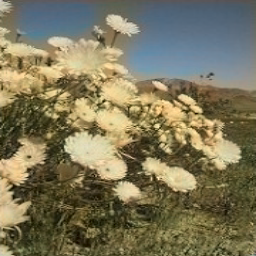
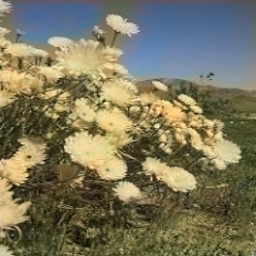
make colors brighter, slight button shift, suggested colors only appear when ready

diff --git a/src/ui/ui.js b/src/ui/ui.js
@@ -48,7 +48,6 @@ upload.addEventListener('change', function() {
       colorPalette.style.visibility="visible";
       clear.style.visibility="visible";
       colorizeBtn.style.visibility="visible";
-      suggestedColorsDiv.style.visibility="visible";
 
       uploadLabel.style.visibility="hidden";
 
@@ -73,6 +72,12 @@ upload.addEventListener('change', function() {
     let r = arr[i][0];
     let g = arr[i][1];
     let b = arr[i][2];
+    suggestedColorsDiv.style.visibility="visible";
+
+    // let r = Math.min(Math.round(arr[i][0] * 1.2), 255);
+    // let g = Math.min(Math.round(arr[i][1] * 1.2), 255);
+    // let b = Math.min(Math.round(arr[i][2] * 1.2), 255);
+   
     i = i + 1;
       color.style.background=rgbToHex(r,g,b)    
     });

diff --git a/src/ui/ui.html b/src/ui/ui.html
@@ -49,7 +49,7 @@
       <button id="colorize" class="clear" style="visibility:hidden;margin-left:10px" onclick="do_something()">Colorize!</button>
 
 
-      <button id = "clear" class="clear" onclick="clearCanvas()" style="visibility:hidden;margin-right:15px">Restart</button><br><br>
+      <button id = "clear" class="clear" onclick="clearCanvas()" style="visibility:hidden;margin-right:15px">Restart</button><br>
       <label id = "uploadLabel" for="upload" class="upload">Upload Image</label>
 
       <input type="file" id="upload" name="nana" class="hidden" accept="image/*" > <br><br>

diff --git a/src/ui/style.css b/src/ui/style.css
@@ -23,8 +23,8 @@ h1 {
 .up{
   display: inline-block;
   border: 0;
-  margin-left:110px;
-  margin-right:40px;
+  margin-left:90px;
+  margin-right:50px;
 
 }
 

diff --git a/src/ui/inception/inception.py b/src/ui/inception/inception.py
@@ -3,18 +3,17 @@ from tensorflow.keras.utils import img_to_array, load_img
 from skimage.color import rgb2lab, lab2rgb, rgb2gray, gray2rgb
 from skimage.io import imsave
 import numpy as np
-from inception_util import create_inception_embedding, preprocess_image, get_top_5_colors
+from inception_util import create_inception_embedding, preprocess_image, get_top_5_colors, adjust_gamma, lighten_rgb
 import tensorflow_datasets as tfds
 from tensorflow import keras
 import tensorflow as tf
 import inception_params as hp
-import cv2
 
 
 
 
 def get_suggested_colors(image):
-    model = keras.models.load_model('last_inception_model.h5')
+    model = keras.models.load_model('newest_inception_model.h5')
     target_shape = (hp.img_size, hp.img_size, 3)
 
     # test_data=tfds.load("tf_flowers", split="train")
@@ -26,20 +25,14 @@ def get_suggested_colors(image):
     # for i in test_data:
     #     img = img_to_array(i)
     #     img = img.astype(np.uint8)
-    #     gamma = 1.5
-    #     inv_gamma = 1.0 / gamma
-    #     lut = np.array([((i / 255.0) ** inv_gamma) * 255 for i in np.arange(0, 256)]).astype(np.uint8)
-    #     img = cv2.LUT(img, lut)
         # color_me_this.append(img)
 
     image = img_to_array(image)
     image = image.astype(np.uint8)
     # increase image brightness
-    gamma = 1.5
-    inv_gamma = 1.0 / gamma
-    lut = np.array([((i / 255.0) ** inv_gamma) * 255 for i in np.arange(0, 256)]).astype(np.uint8)
-    image = cv2.LUT(image, lut)
+    image=adjust_gamma(image)
     image = tf.image.resize(image, target_shape[:2])    
+
     color_me_this = []
     color_me_this.append(img_to_array(image))
     color_me_this = np.array(color_me_this, dtype=float)
@@ -49,7 +42,6 @@ def get_suggested_colors(image):
     color_me_this = color_me_this.reshape(color_me_this.shape+(1,))
 
 
-    # Test model
     output = model.predict([color_me_this, color_me_embed])
     output = output * 128
 
@@ -67,19 +59,16 @@ def get_suggested_colors(image):
 
 
 
-
 def get_colorized_inception(image):
-    model = keras.models.load_model('last_inception_model.h5')
+    model = keras.models.load_model('newest_inception_model.h5')
     target_shape = (hp.img_size, hp.img_size, 3)
 
     image = img_to_array(image)
     ori_shape=image.shape[:2]
     image = image.astype(np.uint8)
     # increase image brightness
-    gamma = 1.5
-    inv_gamma = 1.0 / gamma
-    lut = np.array([((i / 255.0) ** inv_gamma) * 255 for i in np.arange(0, 256)]).astype(np.uint8)
-    image = cv2.LUT(image, lut)
+    image=adjust_gamma(image)
+
     image = tf.image.resize(image, target_shape[:2])    
     color_me_this = []
     color_me_this.append(img_to_array(image))
@@ -89,8 +78,6 @@ def get_colorized_inception(image):
     color_me_this = rgb2lab(1.0/255*color_me_this)[:,:,:,0]
     color_me_this = color_me_this.reshape(color_me_this.shape+(1,))
 
-
-    # Test model
     output = model.predict([color_me_this, color_me_embed])
     output = output * 128
 
@@ -102,7 +89,12 @@ def get_colorized_inception(image):
         colorized = lab2rgb(cur)
         colorized_uint8 = (255 * colorized).astype(np.uint8)
         colorized_uint8=tf.image.resize(colorized_uint8, ori_shape) 
-        # imsave("result/img_"+str(i)+".png", colorized_uint8)
+
+        colorized_uint8 = tf.cast(colorized_uint8, tf.float32)
+        colorized_uint8 = tf.reshape(colorized_uint8, [colorized_uint8.shape[0], colorized_uint8.shape[1], 3])
+        colorized_uint8 = lighten_rgb(colorized_uint8, 1.0)
+        colorized_uint8 = tf.cast(colorized_uint8, tf.uint8)
+        imsave("result/img_"+str(i)+".png", colorized_uint8)
 
         return colorized_uint8
 

diff --git a/src/ui/inception/inception_util.py b/src/ui/inception/inception_util.py
@@ -12,6 +12,7 @@ import tensorflow_datasets as tfds
 from sklearn.cluster import KMeans
 from collections import Counter
 import inception_params as hp
+import cv2
 
 
 
@@ -32,7 +33,6 @@ def get_train_data():
     ds = tfds.load('tf_flowers', split='train')
     ds = ds.map(preprocess_image)
 
-    # Create an array from the dataset
     X = []
     for i in ds:
         X.append(img_to_array(i))
@@ -79,3 +79,22 @@ def get_top_5_colors(lab_img):
         top_rgb_colors.append(rgb_color_int)
     # print(top_rgb_colors)
     return top_rgb_colors
+
+
+# Source: https://pyimagesearch.com/2015/10/05/opencv-gamma-correction/
+def adjust_gamma(image, gamma=1.5):
+    inv_gamma = 1.0 / gamma
+    table = np.array([((i / 255.0) ** inv_gamma) * 255 for i in np.arange(0, 256)]).astype(np.uint8)
+    # apply gamma correction using the lookup table
+    image = cv2.LUT(image, table)
+    return image
+
+
+def lighten_rgb(color, coeff):
+    r, g, b = tf.split(color, 3, axis=-1)
+    r = tf.cast(r, tf.float32) * coeff
+    g = tf.cast(g, tf.float32) * coeff
+    b = tf.cast(b, tf.float32) * coeff
+    new_col = tf.concat([r, g, b], axis=-1)
+    new_col = tf.clip_by_value(new_col, 0.0, 255.0)
+    return new_col
